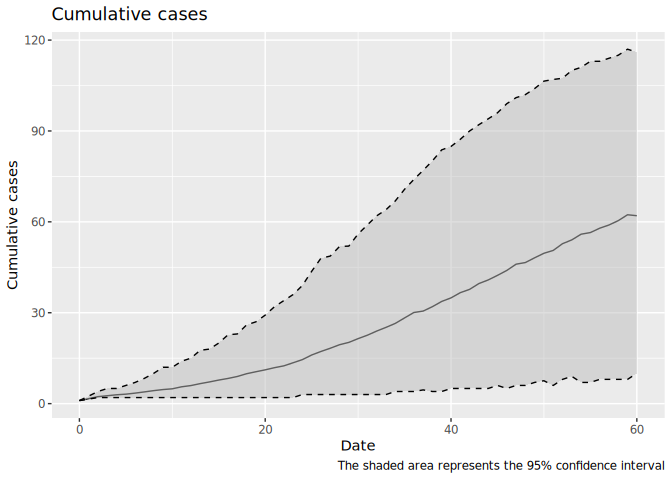
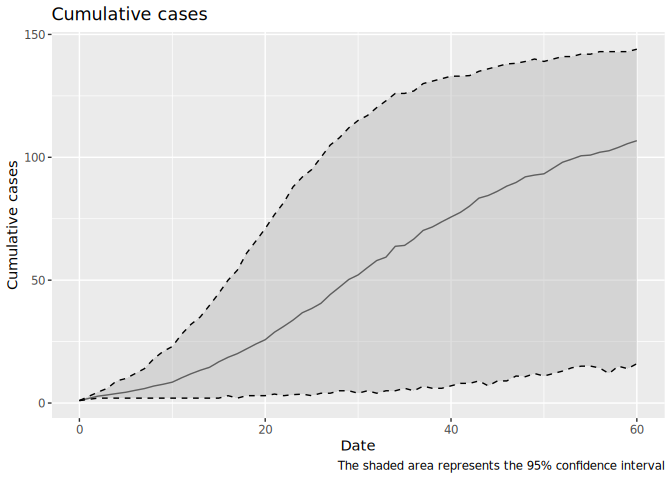
Updating run using the epiworldR 0.8.2.0

diff --git a/scenarios/canyon_crest_74/README.md b/scenarios/canyon_crest_74/README.md
@@ -39,9 +39,9 @@ The following is a raw list of the parameters included in the model:
 |:---|---:|:---|
 | Contact rate | 2.38 | Negative binomial. Calibrated using R0=15 as a reference. |
 | Incubation period | 12.00 | Geometric + 1. Ref.: Jones and Baranowski (2019) |
-| Days undetected | -1.00 | Fixed value. |
+| Days undetected | 2.00 | Fixed value. |
 | Prodromal period | 3.00 | Geometric + 1. Ref.: Jones and Baranowski (2019) |
-| Quarantine days | 21.00 | Utah Measles Disease Plan (“Measles Disease Plan” 2019). |
+| Quarantine days | -1.00 | Utah Measles Disease Plan (“Measles Disease Plan” 2019). |
 | Rash period | 4.00 | Geometric + 1. Ref.: “Measles Disease Plan” (2019). |
 | Transmission rate | 0.90 | Prob. of transmission fixed. Calibrated using R0=15 as a reference. |
 | Vax improved recovery | 0.50 | Fixed value. |
@@ -64,17 +64,18 @@ abm <- with(temp_params, {
   ModelMeaslesQuarantine(
     n = `Population size`,
     prevalence = 1,
-    contact_rate = `Contact rate`,
+    # contact_rate = `Contact rate`,
     transmission_rate = `Transmission rate`,
     incubation_period = `Incubation period`,
     prodromal_period = `Prodromal period`,
     rash_period = `Rash period`,
     days_undetected = `Days undetected`,
-    quarantine_days = `Quarantine days`,
+    quarantine_period = `Quarantine days`,
     vax_efficacy = `Vax efficacy`,
     vax_improved_recovery = `Vax improved recovery`,
     prop_vaccinated = `Vaccination rate`,
-    quarantine_willigness = `Quarantine willingness`
+    quarantine_willingness = `Quarantine willingness`,
+    isolation_period = `Isolation period`
   )
 })
 
@@ -108,12 +109,12 @@ flowchart LR
     s3[Rash]
     s4[Recovered]
     s5[Susceptible]
-    s0 -->|0.083272| s2
-    s1 -->|0.141631| s4
-    s2 -->|0.334440| s3
-    s3 -->|0.201164| s1
-    s3 -->|0.549618| s4
-    s5 -->|0.001605| s0
+    s0 -->|0.083513| s2
+    s1 -->|0.141782| s4
+    s2 -->|0.332501| s3
+    s3 -->|0.199908| s1
+    s3 -->|0.549590| s4
+    s5 -->|0.003541| s0
 
 ```
 
@@ -123,12 +124,12 @@ Estimating the outbreak size:
 
 |    Size | Probability    | Likely size (if \> Size) |
 |--------:|:---------------|:-------------------------|
-|  2.0000 | 0.85           | \[2.00, 117.00\]         |
-|  5.0000 | 0.76           | \[6.00, 117.80\]         |
-| 10.0000 | 0.71           | \[12.00, 118.00\]        |
-| 20.0000 | 0.63           | \[21.00, 119.00\]        |
-| 38.0000 | Median (50%\>) | \[40.00, 121.00\]        |
-| 44.9495 | Mean (average) | \[46.00, 121.00\]        |
+|   2.000 | 0.87           | \[2.00, 146.00\]         |
+|   5.000 | 0.82           | \[11.00, 146.00\]        |
+|  10.000 | 0.81           | \[21.00, 146.00\]        |
+|  20.000 | 0.79           | \[33.00, 146.00\]        |
+| 125.000 | Median (50%\>) | \[126.00, 147.00\]       |
+|  94.363 | Mean (average) | \[101.00, 147.00\]       |
 
 Likely sizes of the outbreak based on 2000 simulations.
 
@@ -153,11 +154,11 @@ Althougth the model was calibrated with an R0 of 15, adding vaccination,
 a smaller population, and quarantine changes (lowers) the reproductive
 number:
 
-    Mean Rt:2.4687656171914
+    Mean Rt:2.42653673163418
 
     Median Rt:2
 
-    95% CI Rt:0,8
+    95% CI Rt:0.5,7
 
 # References
 
